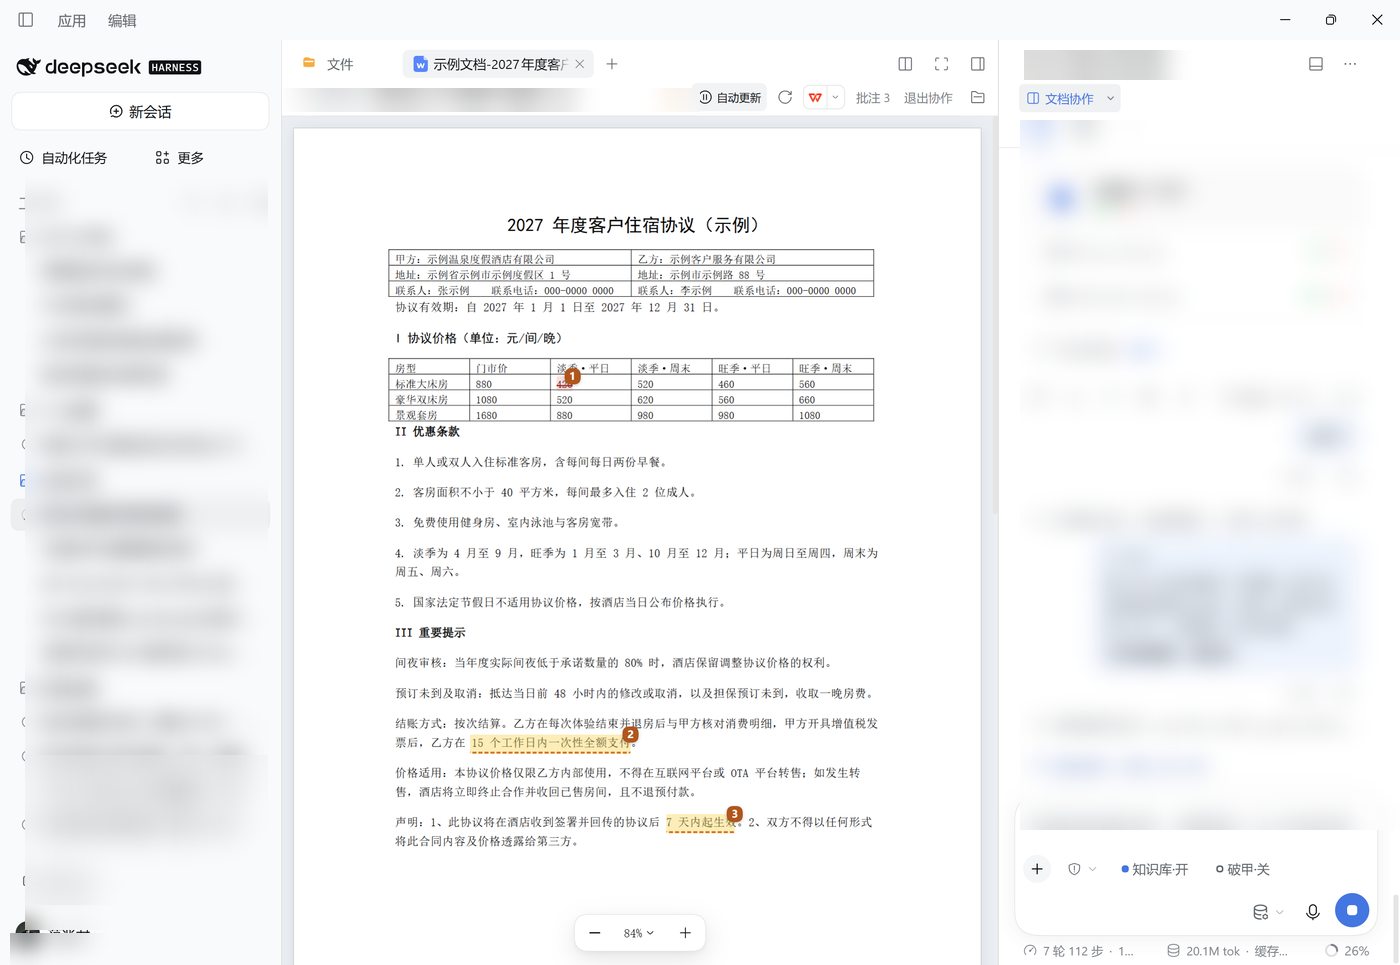
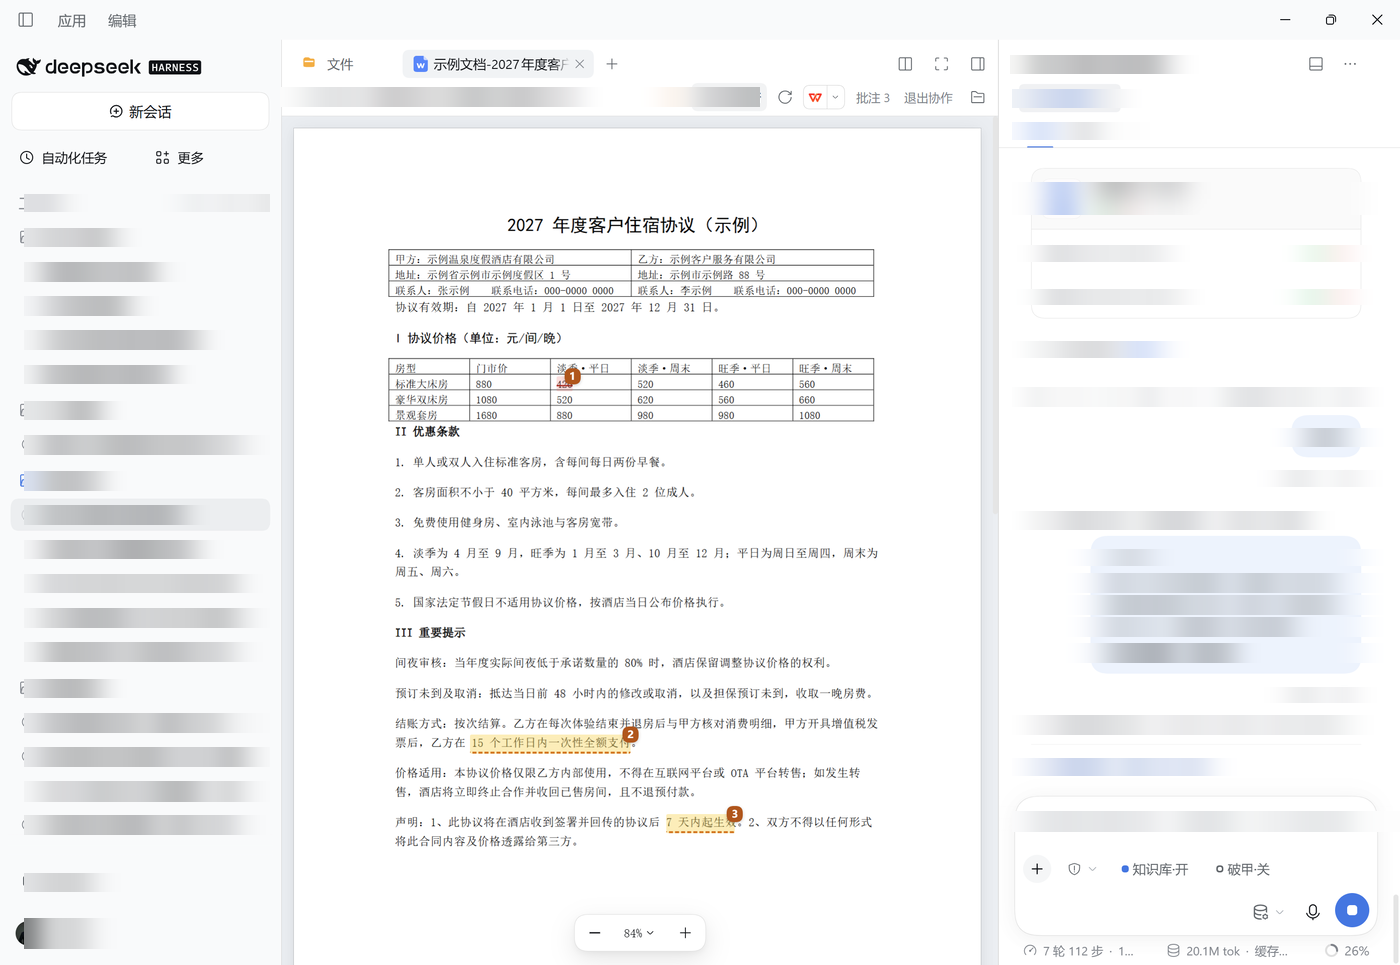
docs: mask the sidebar and conversation line by line, keep the panels readable

diff --git a/AGENTS.md b/AGENTS.md
@@ -7,6 +7,6 @@
 - `dsh.client` 只保留 `{ platform: 'web' }`，不要加 `immediately` / `inject`（会改变加载行为）。
 - 宿主要求写在 `package.json` 的 `dsh.engines.dsh`（当前 `>=0.2.2-rc.3`）。**写错或过窄会直接拒绝安装**，改动前先在本机实测；细则仍写进 README / `docs/COMPATIBILITY.md`。
 - 展示元数据在 `locale/en.json` / `locale/zh.json`；详情页单图在 `docs/DETAIL*.md` → `screenshots/preview.png`（640×300、无文字层依赖）。
-- `docs/screenshots/*.png` 是**打了码的真实界面截图**（会话栏裁掉、对话区模糊、本机路径涂掉；文档用虚构主体的示例协议）；**绝不放入真实会话、文件名、账号、路径或个人数据**，上传前逐张核对。旧的手绘示意图留在 `docs/screenshots/archive/`。插件详情页单图仍用 `docs/DETAIL*.md` → `screenshots/preview.png`（640×300）。
+- `docs/screenshots/*.png` 是**打了码的真实界面截图**（左侧任务列表、右侧对话、会话标题、本机路径逐行模糊；文档用虚构主体的示例协议）；**绝不放入真实会话、文件名、账号、路径或个人数据**，上传前逐张核对。旧的手绘示意图留在 `docs/screenshots/archive/`。插件详情页单图仍用 `docs/DETAIL*.md` → `screenshots/preview.png`（640×300）。
 - 公开仓库不得出现密钥、凭据、本机绝对路径、内网地址、私有仓库地址；发版前按 `docs/COMPATIBILITY.md` 的核查命令扫一遍。
 - 版本与进展记在 `CHANGELOG.md` / `PROJECT.md`；`git tag vN` 才算正式发版。
